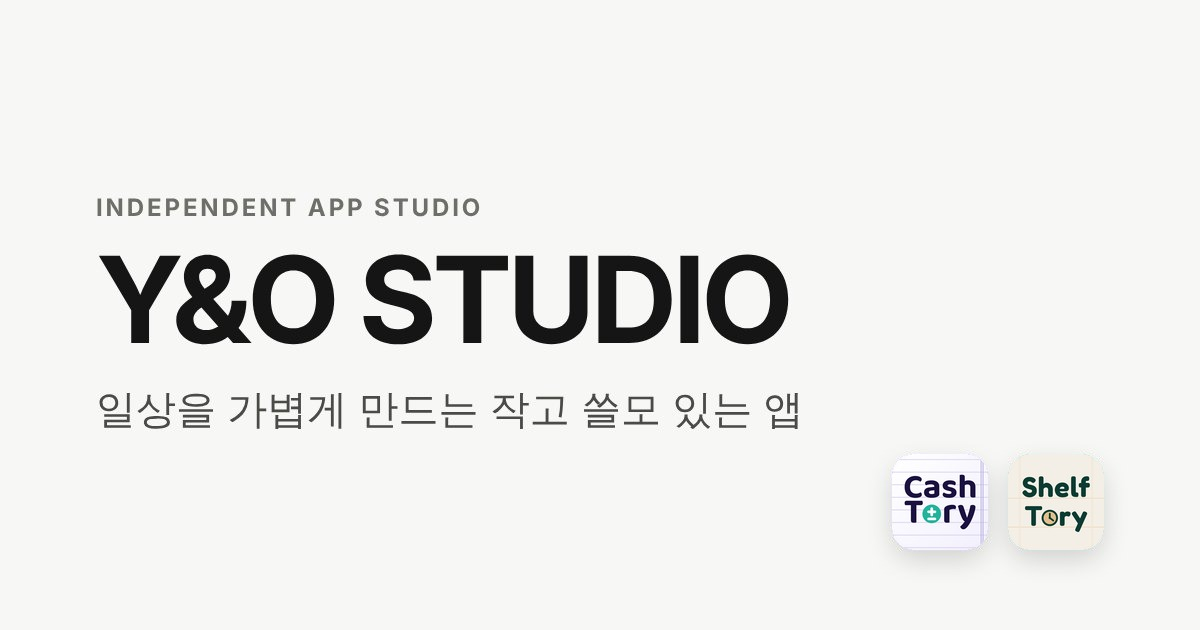
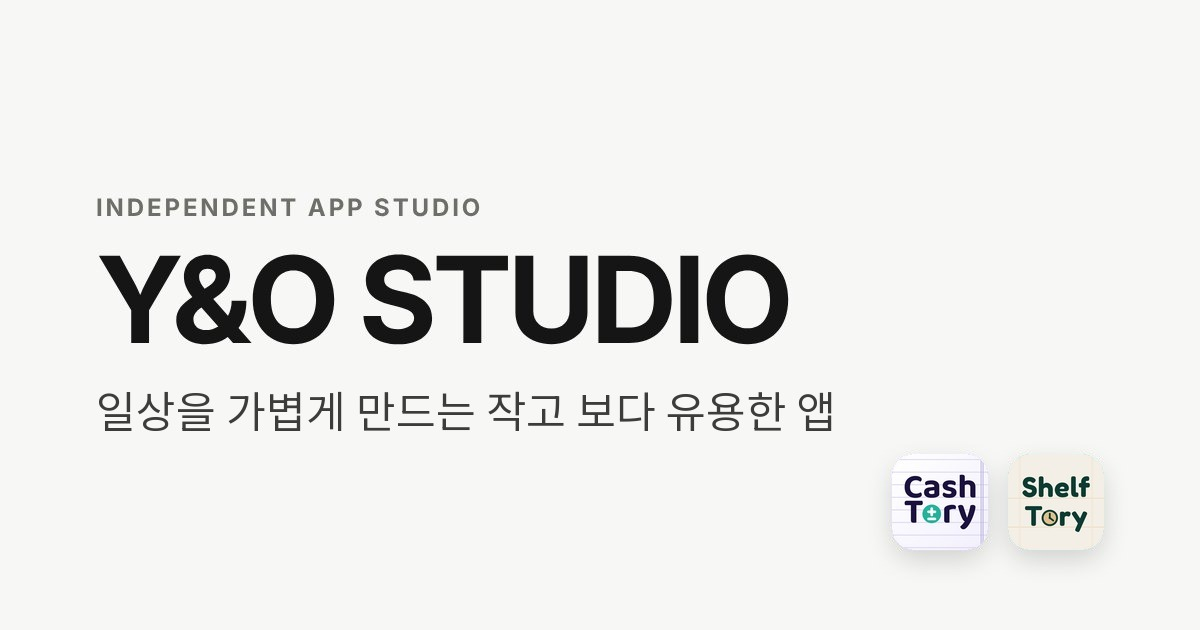
Change studio tagline to "작고 보다 유용한 앱"
Update the hero heading, og:description and the studio share image
(assets/og-image.jpg) from "작고 쓸모 있는 앱" to "작고 보다 유용한 앱".
Bump the share-image URL to ?v=20261018 so cached previews refresh.

Changed region(s): [[0.0925, 0.6032, 0.7092, 0.6937]]

diff --git a/index.html b/index.html
@@ -12,8 +12,8 @@
   <meta property="og:locale" content="ko_KR" />
   <meta property="og:url" content="https://yandostudio.co.kr/" />
   <meta property="og:title" content="Y&amp;O STUDIO" />
-  <meta property="og:description" content="일상을 가볍게 만드는 작고 쓸모 있는 앱을 만듭니다." />
-  <meta property="og:image" content="https://yandostudio.co.kr/assets/og-image.jpg?v=20261017" />
+  <meta property="og:description" content="일상을 가볍게 만드는 작고 보다 유용한 앱을 만듭니다." />
+  <meta property="og:image" content="https://yandostudio.co.kr/assets/og-image.jpg?v=20261018" />
   <meta property="og:image:width" content="1200" />
   <meta property="og:image:height" content="630" />
   <meta name="twitter:card" content="summary_large_image" />
@@ -359,7 +359,7 @@
     <section class="hero">
       <div class="wrap">
         <p class="eyebrow" data-i18n="eyebrow">Independent App Studio</p>
-        <h1 data-i18n="title">일상을 가볍게 만드는 <br>작고 쓸모 있는 앱.</h1>
+        <h1 data-i18n="title">일상을 가볍게 만드는 <br>작고 보다 유용한 앱.</h1>
         <p class="lead" data-i18n="lead">
           Y&O STUDIO는 매일 반복되는 기록과 관리를 조금 더 쉽게 만드는
           실용적인 모바일 앱을 만듭니다.
